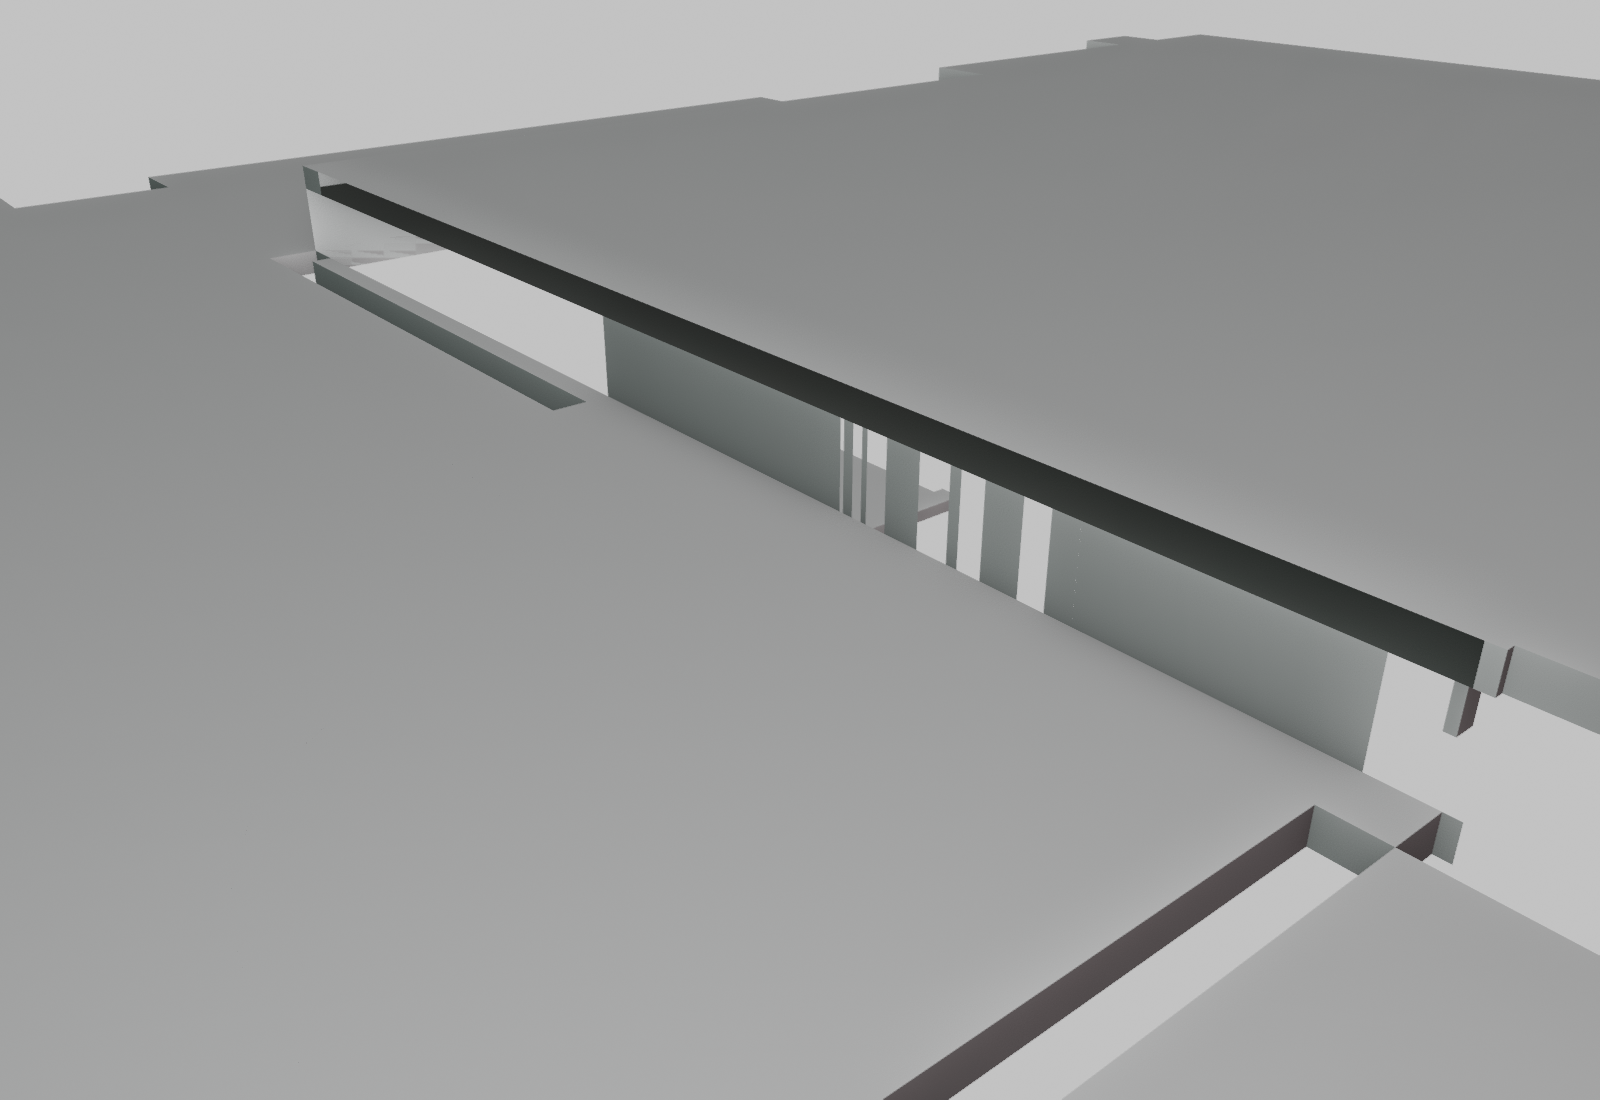
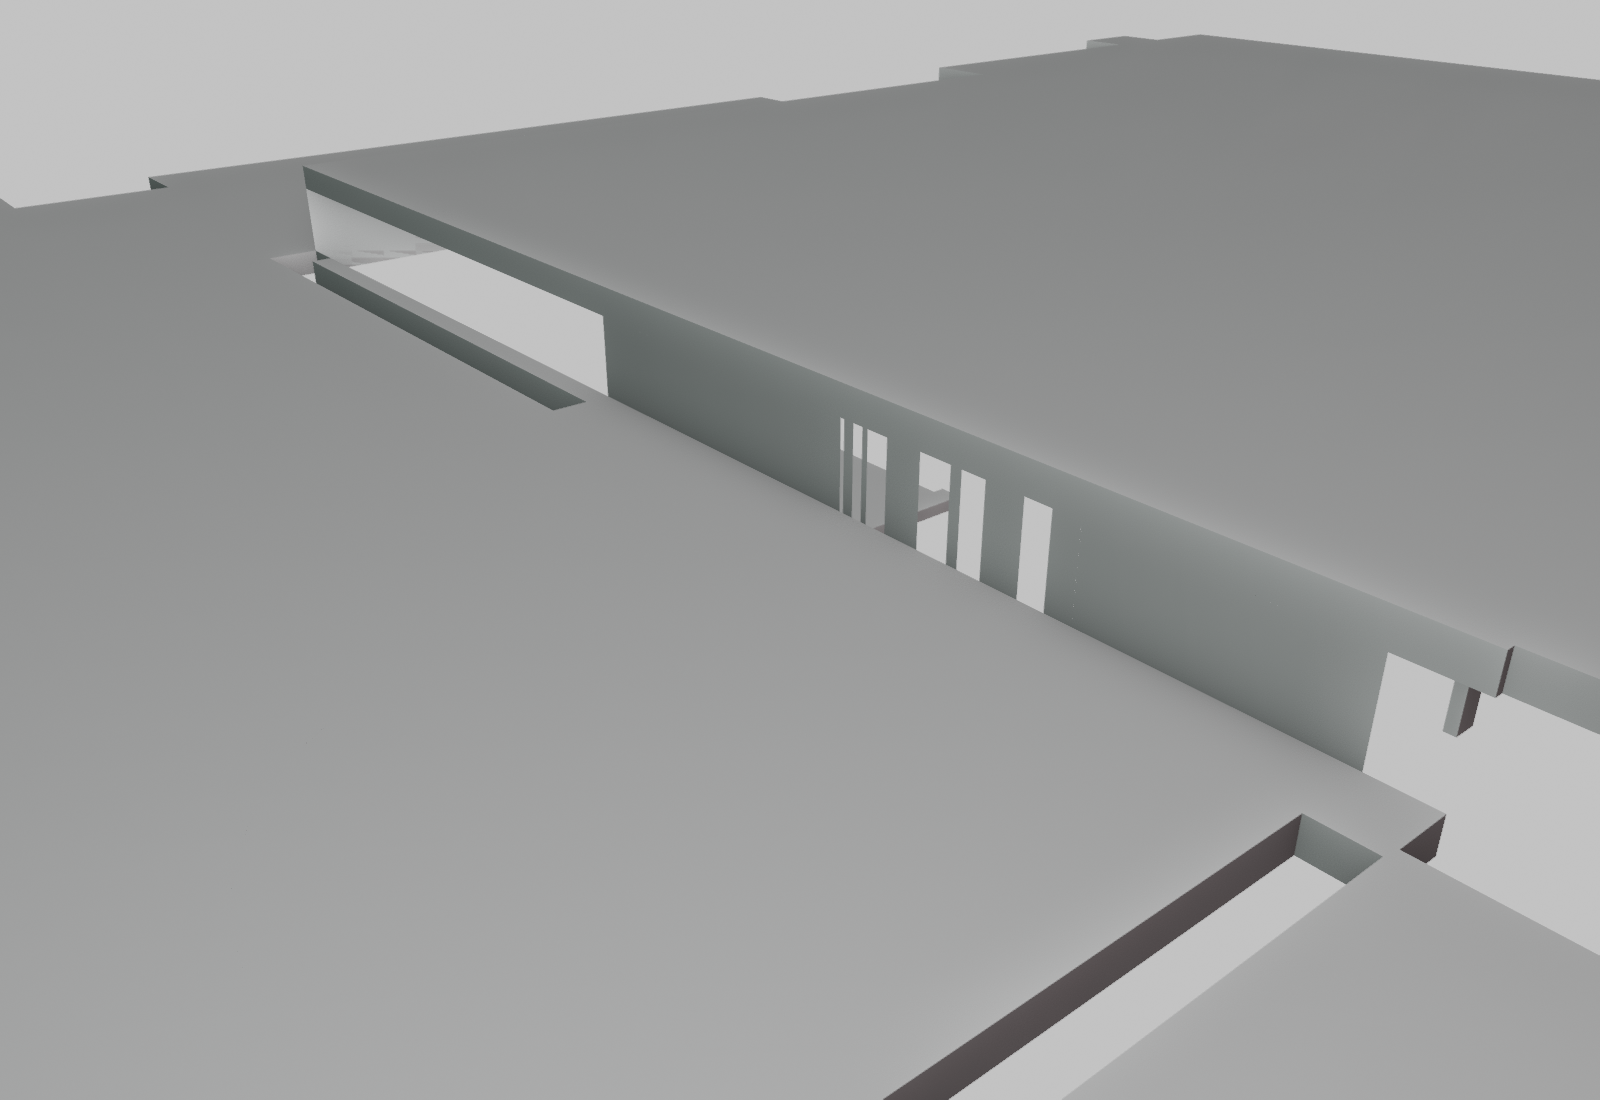
P0.3.1: 交界x=8.0冻结 + 天花网格布尔重建(0新增非流形)
业主冻结: 电视墙x7.8-8.0厚200mm; 交界=x8.0墙顶面线; 南段x7.8
差值=墙厚(墙体遮挡节点,非偏差); 方案A既定不改楼梯不吸附STEP_0。

候选重建(V15_WORK_CEILING_FIX_CANDIDATE.blend,本地未入库):
- HIGH: boolean差集切x<8,y>=4.5 → 0非流形/0退化/valid
- LOW: boolean并集(切下条带降0.45m)+墙内口袋(7.75-8.0×4.49-4.71
  埋墙内消捏合点) → 0非流形/3结构薄片(零面积,删除反开口)/valid
- TRANSITION: 84顶点→x8.0+dissolve_degenerate → 82非流形
  (带状基线88改善)/0退化/valid
- 交接J=5.445m²; 南端收口经墙内口袋转x7.8,北端接既有段

证据: 错层/全区/南节点/北节点俯视+斜视+逐对象QA+原网格备份。
V15_WORK.blend sha feaeed380c未变; FLOOR_LOWER候选继续HOLD。
HUMAN_REVIEW停审,不合并。

Generated with [Devin](https://devin.ai)

Changed region(s): [[0.1875, 0.1545, 0.9375, 0.6182], [0.8125, 0.7109, 0.9375, 0.8036]]

diff --git a/projects/vray_eval_v1/v15_house/cad/step_wave_p0/P03_CEILING_SCHEME_A.md b/projects/vray_eval_v1/v15_house/cad/step_wave_p0/P03_CEILING_SCHEME_A.md
@@ -77,3 +77,47 @@
 ## 停审点
 
 `V15_WORK_CEILING_FIX_CANDIDATE.blend` + 上述证据 → 等业主确认交界线位置(x=8.0 vs 7.8)与整体效果后再定是否并入正式文件。**未获批准前不合并、不改冻结源。**
+
+---
+
+# P0.3.1 — 业主最终定位确认 + 网格质量修复
+
+日期: 2026-10-20 | 状态: HUMAN_REVIEW 待审
+
+## 业主冻结约束(不再比选)
+
+- 电视墙 **x=7.8–8.0m, 厚200mm**; 交界定位线 **x=8.0m**(墙顶面线), 沿电视墙方向延伸
+- 南段 x=7.8 与 x=8.0 差值 = **电视墙自身厚度**, 按墙体遮挡/节点收口关系处理, **非几何偏差**, 不得强拉共线
+- 方案A既定: 2.80/3.25m, 450mm高差, 非波浪直线过渡; 不改三阶波浪楼梯, 不吸附STEP_0
+
+## 候选修复(布尔重建版, 替代P0.3顶点移动版)
+
+| 对象 | 方法 | QA结果 |
+|---|---|---|
+| `V7_CEILING_HIGH` | `boolean DIFFERENCE` EXACT: 切除 x<8.0,y≥4.5 | **0非流形 / 0退化 / valid**, 62v/76f |
+| `V7_CEILING_LOW` | `boolean UNION` EXACT: +(HIGH切下条带降0.45m→2.80层) + 墙内口袋(x7.75–8.0,y4.49–4.71,z2.80–2.92, 完全埋入墙体消捏合点) | **0非流形 / 3结构薄片面(零面积, 删除反而开口, 保留) / valid**, 241v/331f |
+| `V7_CEILING_450MM_TRANSITION` | 交界链84顶点→x8.0 + `dissolve_degenerate` | 82非流形(原带状网格基线88, 改善) / **0退化 / valid**, 84v/20f |
+
+- 2.80m/3.25m标高未动; 交界竖板形式未动; 楼梯/墙/门窗/家具未动
+- `V15_WORK.blend` sha `feaeed380c` 未变; 候选sha `见提交记录`
+
+## 交界线核验(三对象一致)
+
+- HIGH西缘 = TRANSITION竖板 = **x=8.0**, y≈4.5–10.9连续
+- 南端: 交界收至 y≈4.5 南墙线, 经墙内口袋转入 x7.8 南段(墙厚节点, 渲染不可见)
+- 北端: 接既有 x7.9–8.0 N-S段, 楼梯间洞口保留
+- 面积移交: J=5.445m²(LOW 74.74→80.19, HIGH 95.84→90.39)
+
+## 证据(P0.3.1重渲)
+
+`ceil_cand_zone.png`(错层窗), `ceil_cand_wide.png`(全区), `ceil_cand_south_node.png`(南端墙节点), `ceil_cand_north_node.png`(北端+楼梯间洞口), `ceil_cand_oblique.png`(LOW板+450mm竖板+HIGH板斜视), `ceiling_fix_report.json`(逐对象QA+交界采样), `V7_CEILING_*_orig_backup.json`(原网格备份)
+
+## 遗留说明
+
+- LOW含3个零面积结构面(全重合顶点面), 删除会产生12条开放边——保留并记录, 渲染不可见
+- TRANSITION 82条非流形=原始开放带状网格固有(基线88, 本次修后还改善6条)
+- FLOOR_LOWER候选继续独立HOLD, 未合入; 本候选与正式blend分离
+
+## 停审点
+
+HUMAN_REVIEW Gate: 待业主确认候选效果后定是否并入正式文件。**未获批准前不合并、不改冻结源。**
